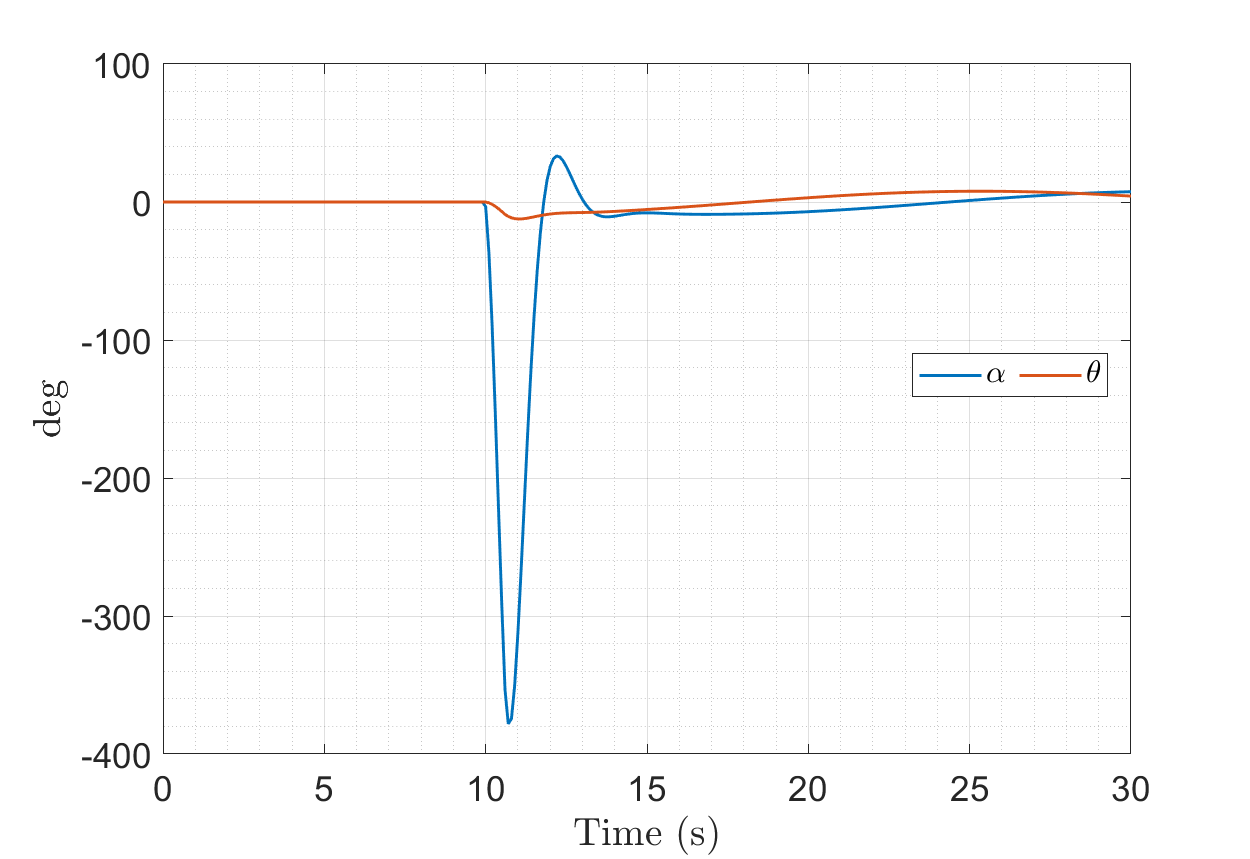
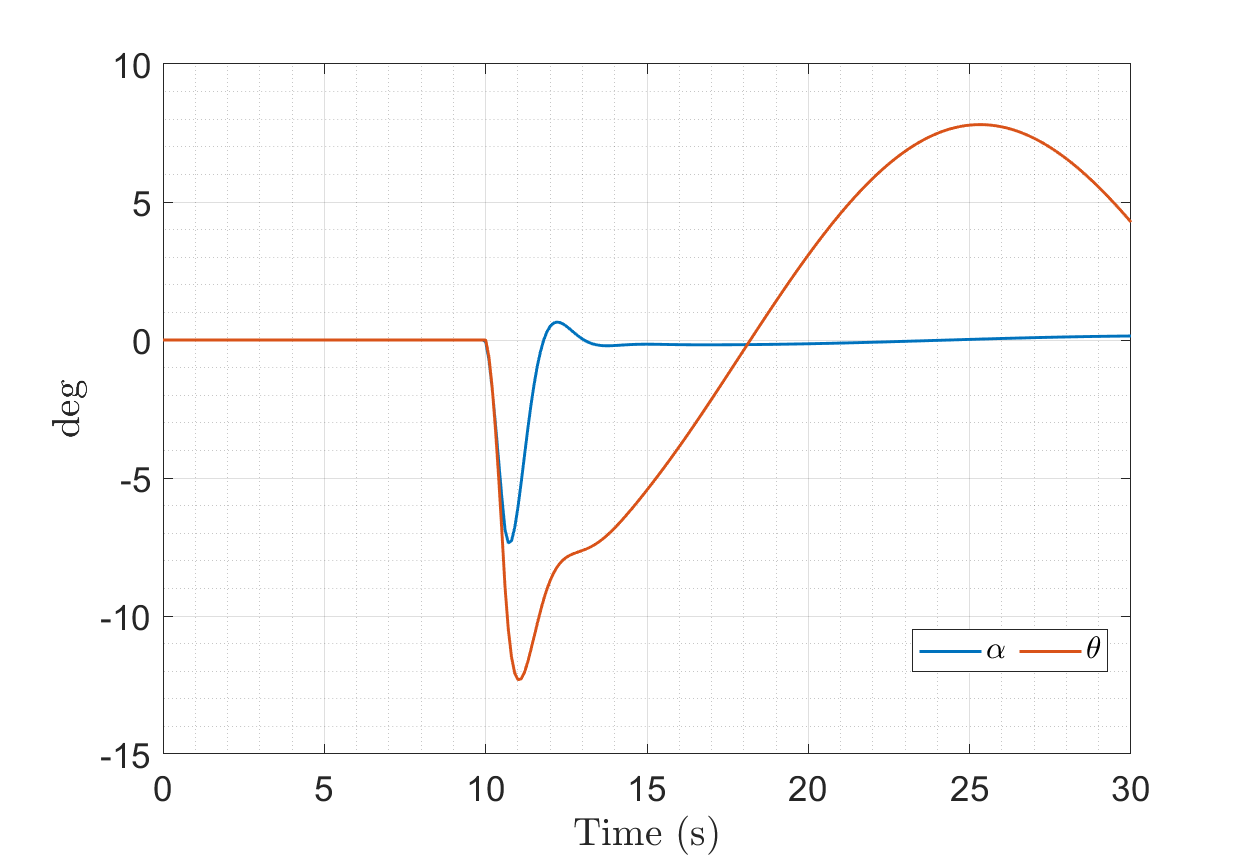
changed A long to w form
A longitudinal matrix was originally in alpha form but now w form

diff --git a/Part C/PartC.m b/Part C/PartC.m
@@ -155,7 +155,7 @@ for cg = ["CG1", "CG2"]
         NTb = 0; % Assumed zero for simplicity according to lecture 8B
         
         % Longitudinal State Matrix 
-        % alpha form
+        % w form
         e_lona = eig(Lona.A_Lon);
         [omega_lona, zeta_lona] = damp(e_lona);
         disp('Alpha form matrix: ');
@@ -325,7 +325,7 @@ for cg = ["CG1", "CG2"]
             hold off
             
             figure(3)
-            plot(Time,rad2deg(X_lon(2,:))) % alpha
+            plot(Time,rad2deg(X_lon(2,:))./u1) % alpha
             hold on
             plot(Time,rad2deg(X_lon(4,:))) % theta
             grid on; grid minor; box on
